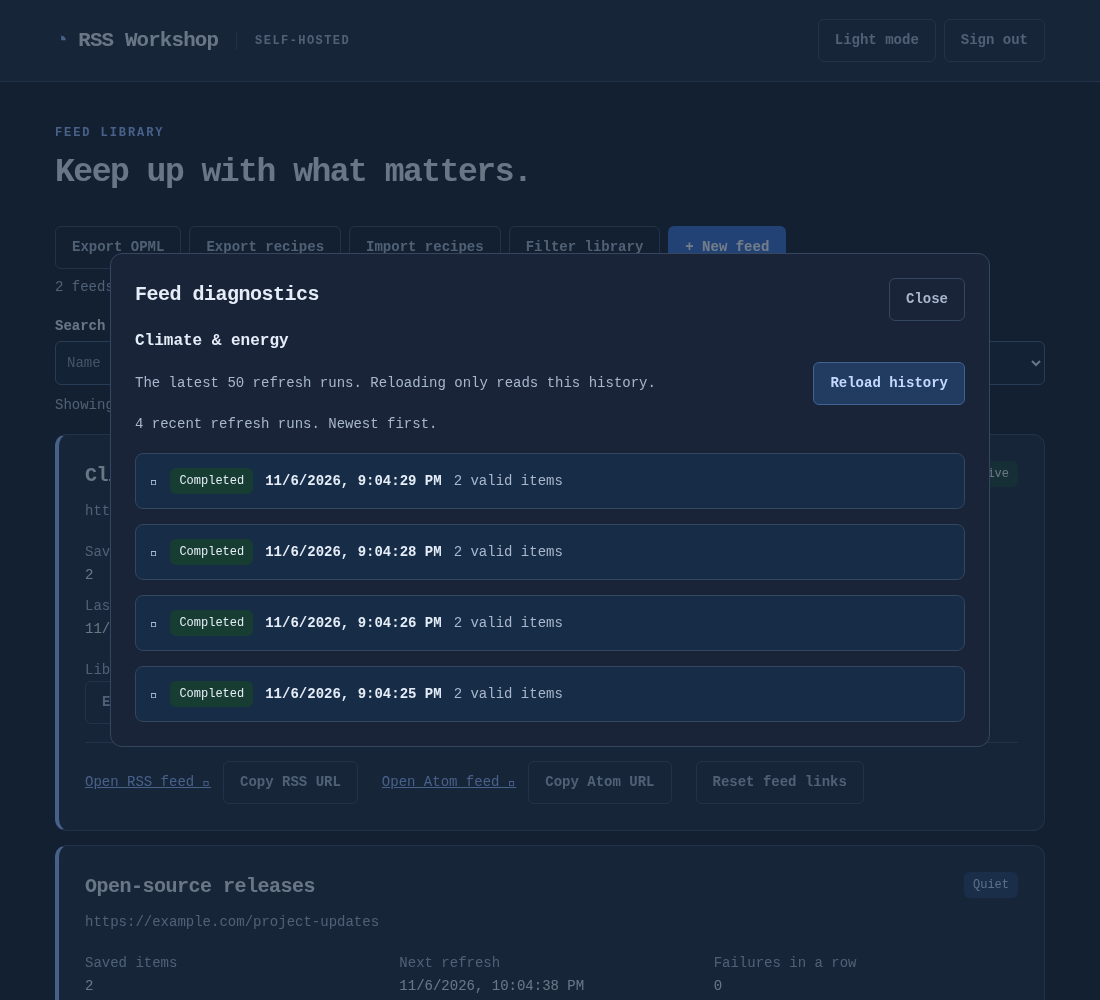
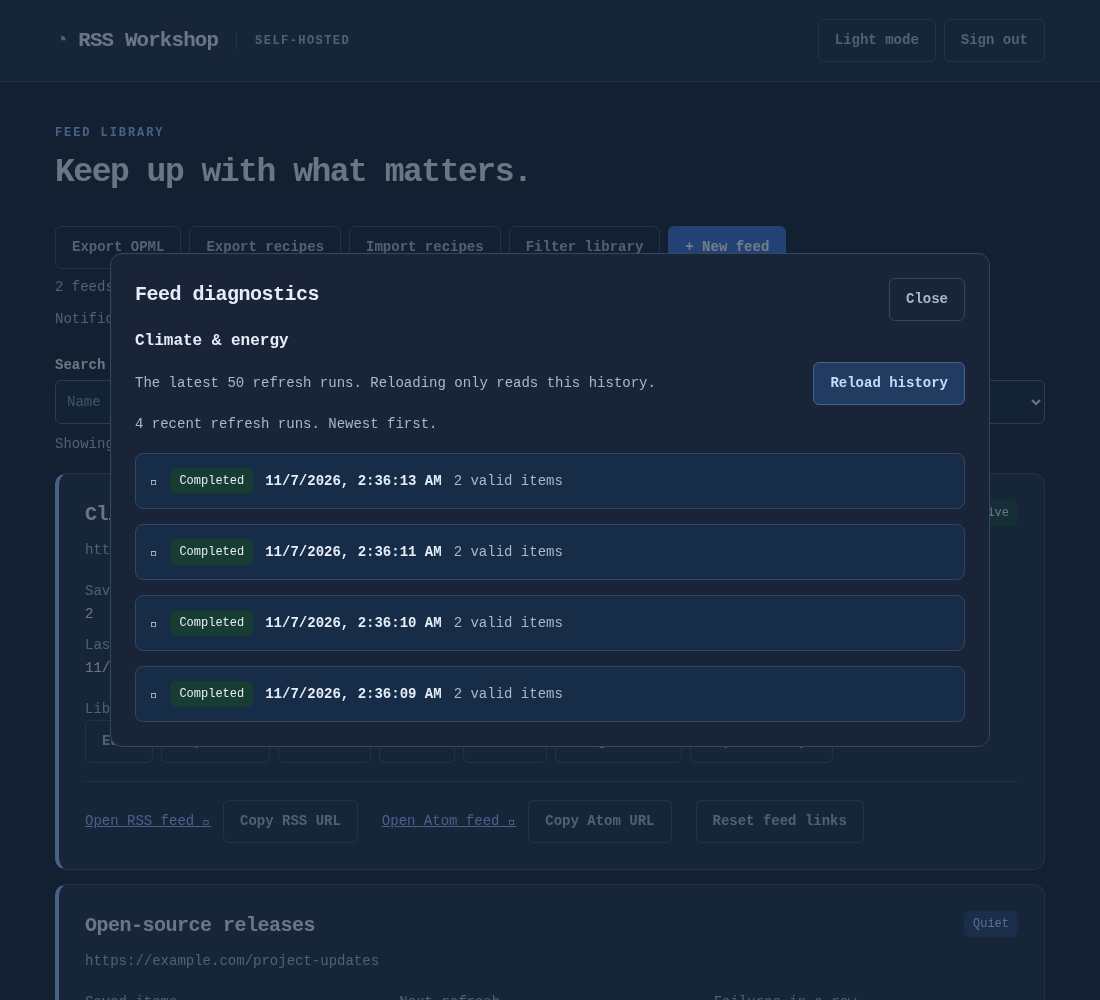
Show notifications in the documentation screenshots
The dashboard's status line now names the notification channel, with a
Send test notification button while one is set, and the README image
still showed the line without it. The documentation fixture had no
notifier, so a recapture would only have shown "Notifications: off".
It now sends to a local receiver, which no capture uses, and waits for
the status before capturing the dashboard.

Recaptured with RSS_UI_DOCS=1 make browser-test from the synthetic
fixture. The dashboard image shows the status and the button; the
filter library and diagnostics images show the taller status line
behind their dialogs, and the visual selector image a sliver of the
library below its dialog. The filters and full article content
captures are unchanged and were not copied.

diff --git a/internal/web/documentation_ui_test.go b/internal/web/documentation_ui_test.go
@@ -92,6 +92,10 @@ func TestBrowserUIDocumentation(t *testing.T) {
 		}
 	}
 	app := &App{Store: s, Scheduler: jobs, Auth: a, Version: "0.2 preview"}
+	// Notifications on, so the dashboard's status line shows the channel and
+	// its test button. They go to a local receiver; no capture presses the
+	// button, and the page never shows the address.
+	withNotifier(t, app, newReceiver(t, 200).URL+"/rss-alerts")
 	server := httptest.NewServer(app.Handler())
 	defer server.Close()
 	app.BaseURL = server.URL
@@ -112,7 +116,7 @@ func TestBrowserUIDocumentation(t *testing.T) {
 	must(chromedp.EmulateViewport(1440, 1100), chromedp.Navigate(server.URL), chromedp.WaitVisible("#login-form"),
 		chromedp.SendKeys("#password", "documentation-fixture-only"), chromedp.Click("#login-form button"), chromedp.WaitVisible(".feed-card"),
 		chromedp.Evaluate(`if(document.documentElement.dataset.theme!=='dark')document.querySelector('#theme-toggle').click()`, nil),
-		chromedp.Poll(`document.querySelectorAll('.feed-card .badge')[1]?.textContent==='Quiet'`, nil))
+		chromedp.Poll(`document.querySelectorAll('.feed-card .badge')[1]?.textContent==='Quiet'&&document.querySelector('#notifications').textContent==='Notifications: JSON webhook'&&!document.querySelector('#test-notification').hidden`, nil))
 	captureTrial(t, tab, "docs-dashboard")
 	must(clickCurrent("Edit on the first card", `document.querySelectorAll('.feed-card')[0].querySelector('button')`),
 		chromedp.Click("#visual-button"), chromedp.WaitVisible("#selector-frame"), chromedp.Poll(`document.querySelector('#selector-matches').dataset.items==='3'`, nil),
